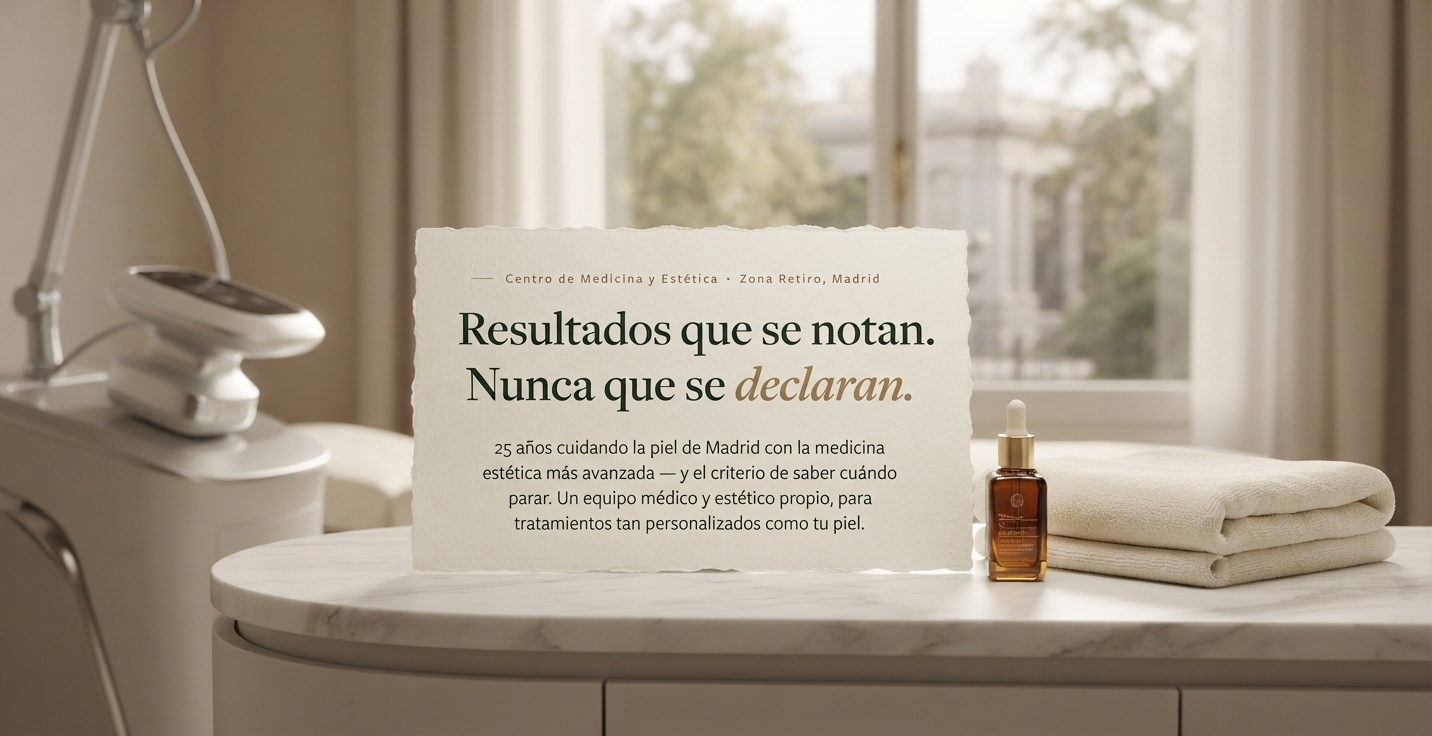
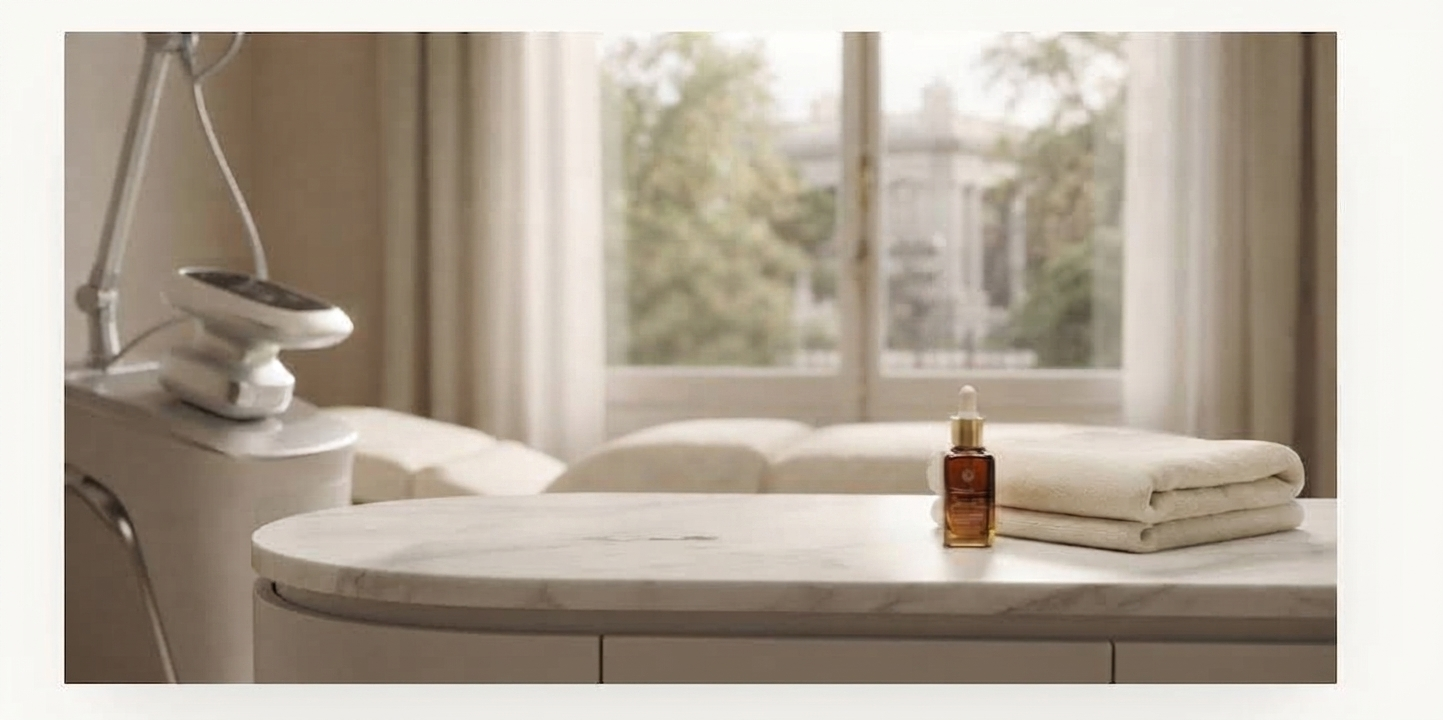
Hero: imagen de ambiente sin texto (misma escena, más limpia)
Sustituye assets/img/hero-inicio.jpg por la versión sin la tarjeta impresa.
Ajusta aspect-ratio (1443/720) y el encuadre móvil.

diff --git a/index.html b/index.html
@@ -177,7 +177,7 @@
   .hero-copy h1 em{font-style:italic;color:var(--bronce);font-weight:400;}
   .hero-copy .lede{font-size:16.5px;font-weight:300;color:#54584f;max-width:560px;margin:0 auto;}
   .hero-figure{position:relative;margin:0;}
-  .hero-figure img{width:100%;aspect-ratio:1432/736;object-fit:cover;object-position:center;border-radius:2px;box-shadow:var(--sombra);}
+  .hero-figure img{width:100%;aspect-ratio:1443/720;object-fit:cover;object-position:center;border-radius:2px;box-shadow:var(--sombra);}
   .hero-ctas{display:flex;gap:16px;flex-wrap:wrap;justify-content:center;margin-top:40px;}
   .trust-row{display:flex;gap:34px;flex-wrap:wrap;justify-content:center;border-top:1px solid var(--linea);padding-top:28px;margin-top:44px;}
   .trust-row div{font-size:11.5px;letter-spacing:.05em;color:var(--verde-2);font-weight:500;display:flex;align-items:center;gap:9px;}
@@ -397,7 +397,7 @@
     .nav-reserva{display:block;color:var(--bronce)!important;font-weight:600!important;letter-spacing:.08em;text-transform:uppercase;font-size:12px!important;}
 
     .hero{padding-top:118px;}
-    .hero-figure img{aspect-ratio:5/4;object-position:76% 28%;}
+    .hero-figure img{aspect-ratio:5/4;object-position:60% 42%;}
     .hero-ctas{margin-top:32px;}
 
     section{padding:88px 0;}
@@ -486,8 +486,8 @@
     </div>
 
     <figure class="hero-figure" data-reveal>
-      <!-- TODO: sustituir por una fotografía real (profesional atendiendo, cabina o tratamiento facial de Qualyderm). -->
-      <img src="assets/img/hero-inicio.jpg" alt="Sala de tratamientos de Qualyderm, centro de medicina y estética en la zona de Retiro, Madrid.">
+      <!-- Imagen de ambiente. Ideal a futuro: foto real del centro (cabina, recepción o tratamiento). -->
+      <img src="assets/img/hero-inicio.jpg" alt="Cabina de tratamientos de Qualyderm, con luz natural y vistas desde la zona de Retiro, Madrid." fetchpriority="high">
     </figure>
 
     <div class="hero-ctas" data-reveal style="transition-delay:.1s">
